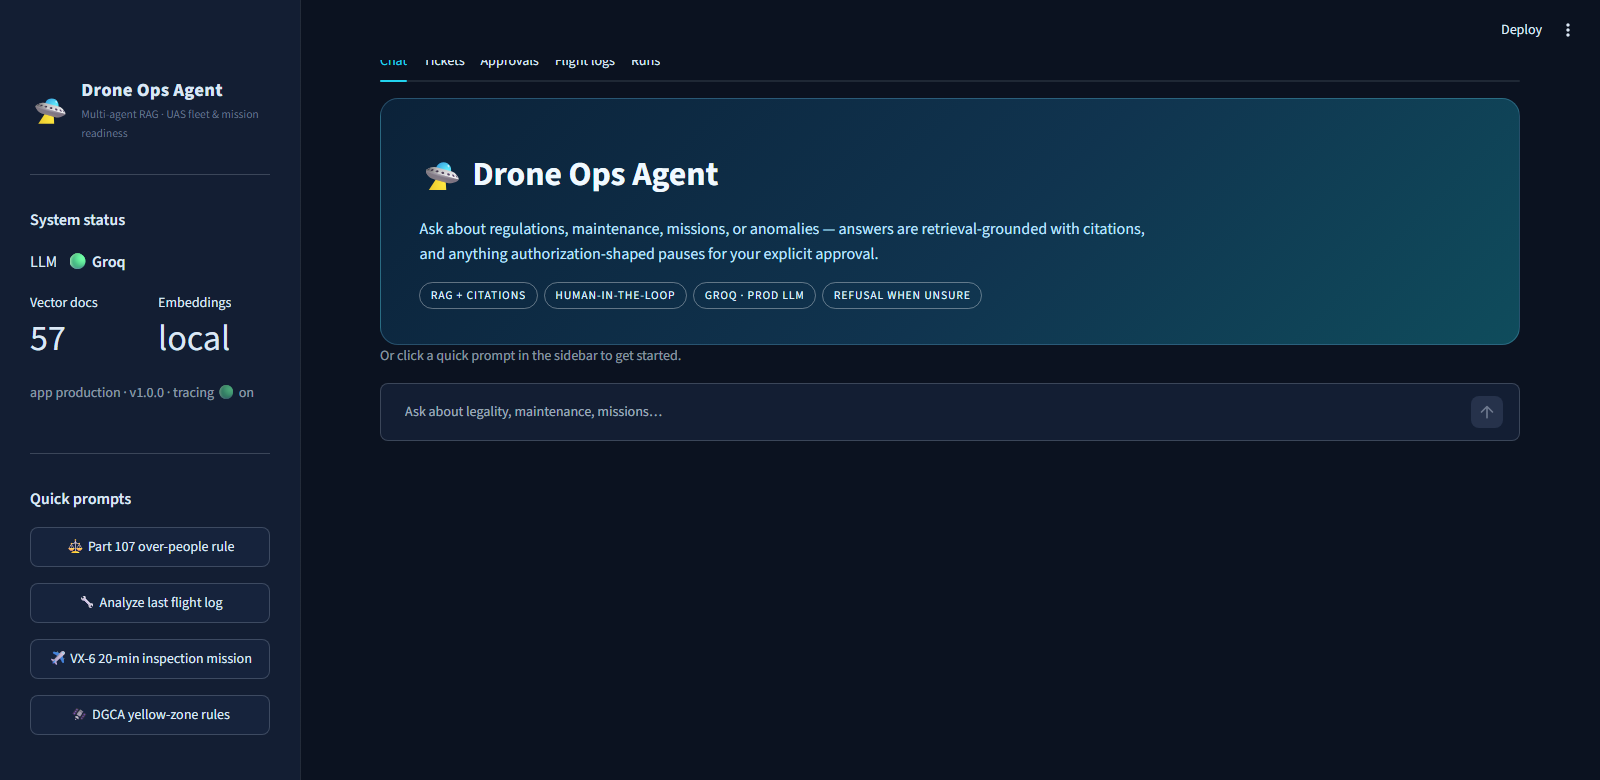
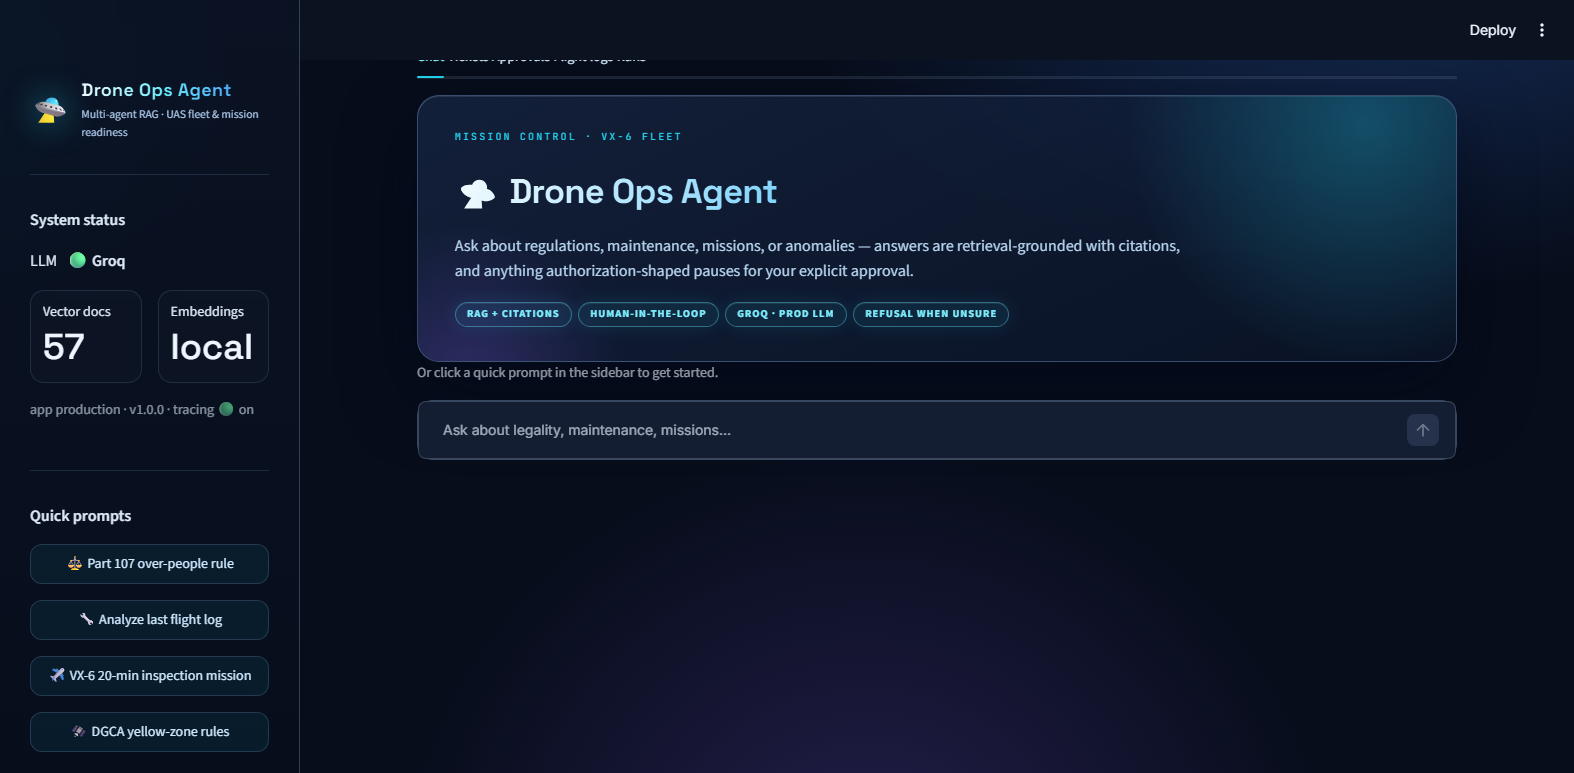
Liquid glass redesign: aurora mesh background, frosted glass panels, gradient hero with kicker, Space Grotesk/Inter/JetBrains Mono type, glowing controls, glass widgets (tabs/metrics/expanders/chat/input)

diff --git a/frontend/streamlit_app.py b/frontend/streamlit_app.py
@@ -16,94 +16,243 @@ st.set_page_config(page_title="Drone Ops Agent", page_icon="🛸", layout="wide"
 # ------------------------------------------------------------------ theme CSS
 st.markdown("""
 <style>
-.block-container { padding-top: 1.6rem; }
+/* ================= Liquid Glass — premium mission-control design system ================= */
+@import url('https://fonts.googleapis.com/css2?family=Inter:wght@400;500;600;700;800&family=JetBrains+Mono:wght@500;700&family=Space+Grotesk:wght@500;700&display=swap');
 
-/* hero */
+:root {
+  --glass: rgba(17, 27, 46, 0.55);
+  --glass-strong: rgba(22, 34, 57, 0.72);
+  --glass-soft: rgba(17, 27, 46, 0.38);
+  --stroke: rgba(154, 203, 255, 0.14);
+  --stroke-hi: rgba(154, 203, 255, 0.30);
+  --accent: #22d3ee;
+  --hi: #eef6ff;
+  --mid: #a9c5e6;
+  --mono: 'JetBrains Mono', ui-monospace, Consolas, monospace;
+}
+
+.block-container { padding-top: 1.35rem; max-width: 1200px; }
+
+.stApp {
+  background:
+    radial-gradient(1000px 620px at 88% -12%, rgba(59,130,246,.30), transparent 62%),
+    radial-gradient(820px 520px at -12% 8%, rgba(34,211,238,.20), transparent 58%),
+    radial-gradient(760px 720px at 55% 115%, rgba(139,92,246,.22), transparent 62%),
+    #070d1b;
+  color: var(--hi);
+  font-family: 'Inter', -apple-system, 'Segoe UI', system-ui, sans-serif;
+}
+
+/* ---------- sidebar: frosted edge panel ---------- */
+[data-testid="stSidebar"] {
+  background: linear-gradient(180deg, rgba(12,19,35,.86), rgba(9,14,26,.80)) !important;
+  backdrop-filter: blur(22px) saturate(150%);
+  -webkit-backdrop-filter: blur(22px) saturate(150%);
+  border-right: 1px solid var(--stroke);
+}
+[data-testid="stSidebar"] hr { border-color: var(--stroke); }
+[data-testid="stSidebar"] .brand .logo { filter: drop-shadow(0 0 16px rgba(34,211,238,.55)); }
+[data-testid="stSidebar"] .brand .name {
+  font-family: 'Space Grotesk', 'Inter', sans-serif;
+  background: linear-gradient(95deg,#f2fbff 0%, #67e8f9 45%, #3b82f6 100%);
+  -webkit-background-clip: text; background-clip: text; color: transparent;
+}
+[data-testid="stSidebar"] .brand .sub { color: var(--mid); }
+[data-testid="stSidebar"] .stButton > button {
+  background: rgba(34,211,238,.07) !important;
+  border: 1px solid rgba(154,203,255,.18) !important;
+  color: #cfeaff !important; border-radius: 12px !important;
+}
+[data-testid="stSidebar"] .stButton > button:hover {
+  background: rgba(34,211,238,.14) !important;
+  border-color: rgba(34,211,238,.55) !important;
+  box-shadow: 0 0 22px rgba(34,211,238,.30);
+  transform: translateY(-1px);
+}
+
+/* ---------- buttons ---------- */
+.stButton > button {
+  border-radius: 12px !important;
+  background: rgba(34,211,238,.09) !important;
+  color: #bfeaff !important;
+  border: 1px solid rgba(154,203,255,.22) !important;
+  font-weight: 600 !important;
+  transition: all .18s ease !important;
+}
+.stButton > button:hover {
+  border-color: rgba(34,211,238,.55) !important;
+  box-shadow: 0 6px 26px rgba(34,211,238,.28);
+  transform: translateY(-1px);
+}
+.stButton > button[kind="primary"], [data-testid="stBaseButton-primary"] {
+  background: linear-gradient(135deg, #22d3ee 0%, #38bdf8 45%, #3b82f6 100%) !important;
+  color: #041424 !important; border: none !important; font-weight: 800 !important;
+  box-shadow: 0 10px 32px rgba(34,211,238,.38) !important;
+}
+.stButton > button[kind="primary"]:hover, [data-testid="stBaseButton-primary"]:hover {
+  box-shadow: 0 12px 36px rgba(59,130,246,.45) !important;
+}
+
+/* ---------- hero ---------- */
 .hero {
-  background: linear-gradient(135deg, #0b2239 0%, #10344f 55%, #0f4c5c 100%);
-  border-radius: 18px; padding: 2.2rem 2.4rem; color: #eaf4ff;
-  border: 1px solid rgba(125, 211, 252, .25);
+  position: relative; overflow: hidden;
+  background: linear-gradient(155deg, rgba(24,38,64,.78), rgba(12,20,37,.80));
+  backdrop-filter: blur(16px) saturate(160%);
+  -webkit-backdrop-filter: blur(16px) saturate(160%);
+  border: 1px solid var(--stroke-hi);
+  border-radius: 22px; padding: 2.1rem 2.3rem;
+  box-shadow: 0 30px 70px rgba(2,8,23,.55), inset 0 1px 0 rgba(255,255,255,.10);
 }
-.hero h1 { font-size: 2.1rem; margin: 0 0 .35rem 0; color: #f0f9ff; }
-.hero p  { color: #bfe3ff; margin: 0; max-width: 46rem; }
-.hero .badge-row { margin-top: .9rem; }
+.hero::after {
+  content:""; position:absolute; width:520px; height:520px; right:-170px; top:-230px;
+  background: radial-gradient(circle, rgba(34,211,238,.28), transparent 65%);
+  pointer-events:none;
+}
+.hero::before {
+  content:""; position:absolute; width:340px; height:340px; left:-120px; bottom:-190px;
+  background: radial-gradient(circle, rgba(139,92,246,.25), transparent 65%);
+  pointer-events:none;
+}
+.kicker {
+  position: relative; font-family: var(--mono); font-size:.62rem; letter-spacing:.22em;
+  text-transform: uppercase; color:#22d3ee; margin-bottom:.4rem;
+}
+.hero h1 {
+  position: relative; font-family: 'Space Grotesk', 'Inter', sans-serif;
+  font-size: 2.15rem; font-weight: 700; letter-spacing: -0.02em; margin: 0 0 .35rem 0;
+  background: linear-gradient(95deg,#f2fbff 0%, #7dd3fc 35%, #38bdf8 60%, #818cf8 100%);
+  -webkit-background-clip: text; background-clip: text; color: transparent;
+}
+.hero p { position: relative; color: #b8d6f0; margin: 0; max-width: 46rem; line-height: 1.55; }
+.hero .badge-row { margin-top: .95rem; position: relative; }
 .tag {
-  display: inline-block; padding: .18rem .65rem; border-radius: 999px;
-  font-size: .72rem; letter-spacing: .08em; text-transform: uppercase;
-  border: 1px solid rgba(255,255,255,.35); color: #dff3ff; margin-right: .4rem;
+  display: inline-block; padding: .22rem .7rem; border-radius: 999px;
+  font-size: .65rem; letter-spacing: .10em; text-transform: uppercase; font-weight: 700;
+  border: 1px solid rgba(103,232,249,.38); color: #7ff0ff;
+  background: rgba(34,211,238,.08); margin-right: .4rem;
+  box-shadow: inset 0 1px 0 rgba(255,255,255,.08), 0 0 18px rgba(34,211,238,.12);
 }
 
-/* generic pills */
-.pill { display: inline-block; padding: .1rem .55rem; border-radius: 8px;
-        font-size: .75rem; font-weight: 700; color: #fff; }
-.pill-high  { background: #dc2626; }
-.pill-medium{ background: #d97706; }
-.pill-low   { background: #16a34a; }
-.pill-info  { background: #2563eb; }
-.pill-open  { background: #475569; }
-.pill-ground{ background: #7f1d1d; }
-.pill-inspect { background: #1d4ed8; }
+/* ---------- glass pills ---------- */
+.pill { display:inline-block; padding:.16rem .6rem; border-radius:8px; font-size:.7rem; font-weight:800;
+        color:#fff; letter-spacing:.04em; font-family:var(--mono); }
+.pill-high   { background: linear-gradient(135deg,#ef4444,#b91c1c); box-shadow: 0 0 14px rgba(239,68,68,.40); }
+.pill-medium { background: linear-gradient(135deg,#f59e0b,#b45309); box-shadow: 0 0 14px rgba(245,158,11,.40); }
+.pill-low    { background: linear-gradient(135deg,#22c55e,#15803d); box-shadow: 0 0 14px rgba(34,197,94,.40); }
+.pill-info   { background: linear-gradient(135deg,#3b82f6,#1d4ed8); box-shadow: 0 0 14px rgba(59,130,246,.40); }
+.pill-open   { background: rgba(71,85,105,.85); border:1px solid rgba(154,203,255,.25); }
+.pill-ground { background:#7f1d1d; }
+.pill-inspect{ background:#1d4ed8; }
 
-/* citation cards */
+/* ---------- citation cards ---------- */
 .cite-card {
-  border: 1px solid #dbe5ef; border-left: 4px solid #0ea5e9;
-  border-radius: 10px; padding: .55rem .75rem; margin: .35rem 0;
-  background: #f8fbff; font-size: .85rem;
+  border: 1px solid var(--stroke); border-left: 3px solid var(--accent);
+  border-radius: 12px; padding: .55rem .75rem; margin: .4rem 0;
+  background: var(--glass-soft); backdrop-filter: blur(10px);
+  font-size: .85rem; box-shadow: inset 0 1px 0 rgba(255,255,255,.06);
 }
-.cite-card b { color: #075985; }
+.cite-card b { color: #7ff0ff; font-family: var(--mono); font-size: .78rem; }
 
-/* sidebar brand */
+/* ---------- sidebar brand ---------- */
 .brand { display: flex; align-items: center; gap: .6rem; }
 .brand .logo { font-size: 1.9rem; }
-.brand .name { font-weight: 800; font-size: 1.15rem; letter-spacing: .02em; }
-.brand .sub  { color: #64748b; font-size: .72rem; }
+.brand .name { font-weight: 800; font-size: 1.12rem; letter-spacing: .02em; }
+.brand .sub  { color: var(--mid); font-size: .72rem; }
 
-/* pending approval banner — dark maroon alert, explicit colors for the dark theme */
+/* ---------- HITL banner: high-urgency glass alert ---------- */
 .hitl {
-  border: 2px solid #ef4444; background: #2b0f12; border-radius: 12px;
-  padding: .8rem 1rem; margin-bottom: .6rem; color: #fde2e2;
+  border: 1px solid rgba(248,113,113,.55);
+  background: linear-gradient(160deg, rgba(69,10,10,.82), rgba(43,15,18,.82));
+  backdrop-filter: blur(14px);
+  border-radius: 16px; padding: .8rem 1rem; margin-bottom: .6rem; color: #ffe4e4;
+  box-shadow: 0 0 0 1px rgba(248,113,113,.15), 0 16px 48px rgba(239,68,68,.18);
 }
-.hitl h4 { margin: 0 0 .3rem 0; color: #fca5a5; letter-spacing:.02em; }
-.hitl code {
-  background: #3b1216; color: #fda4a4; border: 1px solid #7f1d1d;
-  border-radius: 6px; padding: .1rem .35rem; font-size:.82rem;
-}
+.hitl h4 { margin: 0 0 .3rem 0; color: #fca5a5; letter-spacing: .06em;
+           text-transform: uppercase; font-size: .78rem; }
+.hitl code { background: #3b1216; color: #fda4a4; border: 1px solid rgba(248,113,113,.4);
+             border-radius: 6px; padding: .1rem .35rem; font-size: .82rem; font-family: var(--mono); }
 .hitl b { color: #fecaca; }
 
-/* verdict banner (flight analysis) */
-.verdict { border-radius: 12px; padding: .7rem 1rem; margin: .3rem 0 .6rem 0; color:#fff; }
-.verdict h3 { margin: 0; font-size: 1.05rem; }
-.verdict small { opacity: .85; font-size: .78rem; }
-.v-ground  { background: linear-gradient(135deg,#7f1d1d,#dc2626); border:1px solid #fca5a5; }
-.v-monitor { background: linear-gradient(135deg,#78350f,#d97706); border:1px solid #fcd34d; }
-.v-pass    { background: linear-gradient(135deg,#14532d,#16a34a); border:1px solid #86efac; }
+/* ---------- verdict banner ---------- */
+.verdict { border-radius: 16px; padding: .75rem 1.05rem; margin: .35rem 0 .6rem 0; color: #fff;
+           backdrop-filter: blur(12px);
+           box-shadow: 0 18px 46px rgba(2,8,23,.5), inset 0 1px 0 rgba(255,255,255,.22); }
+.verdict h3 { margin: 0; font-size: 1.05rem; font-family: 'Space Grotesk', 'Inter', sans-serif; }
+.verdict small { opacity: .92; font-size: .78rem; font-family: var(--mono); }
+.v-ground  { background: linear-gradient(135deg, rgba(127,29,29,.85), rgba(220,38,38,.75));
+             border: 1px solid rgba(252,165,165,.5); }
+.v-monitor { background: linear-gradient(135deg, rgba(120,53,15,.85), rgba(217,119,6,.75));
+             border: 1px solid rgba(252,211,77,.5); }
+.v-pass    { background: linear-gradient(135deg, rgba(20,83,45,.85), rgba(22,163,74,.75));
+             border: 1px solid rgba(134,239,172,.5); }
 
-/* stat tiles */
-.tiles { display:flex; gap:.5rem; flex-wrap:wrap; margin:.4rem 0 .6rem; }
-.tile { flex:1 1 120px; background:#0f1c30; border:1px solid #1e3a5f; border-radius:10px; padding:.45rem .6rem; text-align:center; }
-.tile .k { color:#7aa5d0; font-size:.65rem; text-transform:uppercase; letter-spacing:.06em; }
-.tile .v { color:#f0f7ff; font-size:1.05rem; font-weight:800; }
+/* ---------- stat tiles ---------- */
+.tiles { display: flex; gap: .5rem; flex-wrap: wrap; margin: .4rem 0 .6rem; }
+.tile { flex: 1 1 110px; background: var(--glass-soft); border: 1px solid var(--stroke);
+        border-radius: 14px; padding: .5rem .6rem; text-align: center;
+        backdrop-filter: blur(10px); box-shadow: inset 0 1px 0 rgba(255,255,255,.07); }
+.tile .k { color: #8fb4d8; font-size: .6rem; text-transform: uppercase; letter-spacing: .07em; }
+.tile .v { color: #eef6ff; font-size: 1.02rem; font-weight: 800; font-family: 'Space Grotesk', 'Inter', sans-serif; }
 
-/* finding cards */
-.finding { display:flex; gap:.6rem; align-items:flex-start; border:1px solid #1e3a5f;
-           border-left:5px solid #64748b; border-radius:10px; padding:.5rem .7rem; margin:.35rem 0;
-           background:#0f1c30; }
-.f-high { border-left-color:#ef4444; }
-.f-medium { border-left-color:#f59e0b; }
-.f-low { border-left-color:#eab308; }
-.finding .icon { font-size:1.1rem; line-height:1.2; }
-.finding .type { font-weight:700; color:#f3f8ff; font-size:.85rem; }
-.finding .desc { color:#a8c0dd; font-size:.8rem; }
-.finding .mono { font-family:ui-monospace,Consolas,monospace; color:#67e8f9; font-size:.72rem; }
+/* ---------- finding cards ---------- */
+.finding { display: flex; gap: .6rem; align-items: flex-start; border: 1px solid var(--stroke);
+           border-left: 4px solid #64748b; border-radius: 14px; padding: .55rem .75rem;
+           margin: .35rem 0; background: var(--glass-soft); backdrop-filter: blur(10px);
+           box-shadow: inset 0 1px 0 rgba(255,255,255,.05); }
+.f-high   { border-left-color: #ef4444; box-shadow: inset 0 0 28px rgba(239,68,68,.09); }
+.f-medium { border-left-color: #f59e0b; }
+.f-low    { border-left-color: #eab308; }
+.finding .icon { font-size: 1.1rem; line-height: 1.25; }
+.finding .type { font-weight: 700; color: #f3f8ff; font-size: .82rem;
+                 font-family: var(--mono); letter-spacing: .02em; }
+.finding .desc { color: #a9c5e6; font-size: .8rem; line-height: 1.45; }
+.finding .mono { font-family: var(--mono); color: #67e8f9; font-size: .7rem;
+                 background: rgba(34,211,238,.07); border: 1px solid rgba(34,211,238,.18);
+                 border-radius: 6px; padding: .12rem .35rem; display: inline-block; margin-top: .25rem; }
 
-/* actions checklist */
-.actions { border:1px dashed #155e75; border-radius:10px; padding:.5rem .8rem; background:rgba(34,211,238,.06); margin:.4rem 0; }
-.actions b { color:#67e8f9; }
-.actions ol { margin:.2rem 0 .1rem 1.1rem; padding:0; }
-.actions li { color:#c4dcf5; font-size:.82rem; margin:.15rem 0; }
+/* ---------- actions checklist ---------- */
+.actions { border: 1px dashed rgba(103,232,249,.4); border-radius: 14px; padding: .55rem .85rem;
+           background: rgba(34,211,238,.06); margin: .4rem 0; backdrop-filter: blur(8px); }
+.actions b { color: #67e8f9; }
+.actions ol { margin: .2rem 0 .1rem 1.1rem; padding: 0; }
+.actions li { color: #c4dcf5; font-size: .82rem; margin: .15rem 0; line-height: 1.45; }
 
-/* raw answer expander */
-.rawhint { color:#64748b; font-size:.72rem; }
+.rawhint { color: #64748b; font-size: .72rem; }
+
+/* ---------- native widgets: glass treatment ---------- */
+[data-testid="stMetric"] {
+  background: var(--glass-soft); border: 1px solid var(--stroke); border-radius: 14px;
+  padding: .55rem .75rem; backdrop-filter: blur(10px);
+}
+[data-testid="stMetricValue"] { font-family: 'Space Grotesk', 'Inter', sans-serif; color: #eef6ff; }
+[data-testid="stTabs"] [role="tablist"] { gap: .2rem; border-bottom: 1px solid var(--stroke); }
+[data-testid="stTabs"] [role="tab"] { color: #cfe3f7 !important; -webkit-text-fill-color: #cfe3f7 !important;
+                                      opacity: 1 !important; border-radius: 10px 10px 0 0; font-weight: 600; }
+[data-testid="stTabs"] [role="tab"][aria-selected="true"] {
+  color: #7ff0ff !important; -webkit-text-fill-color: #7ff0ff !important;
+}
+[data-testid="stExpander"] {
+  border: 1px solid var(--stroke) !important; border-radius: 14px !important;
+  background: var(--glass-soft) !important; backdrop-filter: blur(10px);
+}
+[data-testid="stChatMessage"] {
+  background: rgba(15,24,42,.55) !important; border: 1px solid var(--stroke);
+  border-radius: 18px !important; backdrop-filter: blur(10px);
+  box-shadow: inset 0 1px 0 rgba(255,255,255,.05);
+}
+[data-testid="stChatInput"] {
+  border: 1px solid var(--stroke-hi) !important; border-radius: 16px;
+  background: rgba(13,21,38,.72); backdrop-filter: blur(12px);
+}
+[data-testid="stChatInput"] textarea { background: transparent !important; color: #eef6ff !important; }
+[data-testid="stAlert"] { border-radius: 14px !important; border: 1px solid var(--stroke); backdrop-filter: blur(8px); }
+code, pre { font-family: var(--mono) !important; }
+
+/* ---------- scrollbars & focus ---------- */
+::-webkit-scrollbar { width: 10px; height: 10px; }
+::-webkit-scrollbar-thumb { background: rgba(154,203,255,.18); border-radius: 8px; }
+::-webkit-scrollbar-thumb:hover { background: rgba(154,203,255,.32); }
+:focus-visible { outline: 2px solid var(--accent) !important; outline-offset: 2px; border-radius: 4px; }
 </style>
 """, unsafe_allow_html=True)
 
@@ -351,7 +500,7 @@ with tab_chat:
 
     if not st.session_state.messages:
         st.markdown(
-            '<div class="hero"><h1>🛸 Drone Ops Agent</h1>'
+            '<div class="hero"><div class="kicker">Mission Control · VX-6 Fleet</div><h1>🛸 Drone Ops Agent</h1>'
             "<p>Ask about regulations, maintenance, missions, or anomalies — answers are "
             "retrieval-grounded with citations, and anything authorization-shaped pauses for "
             "your explicit approval.</p>"
